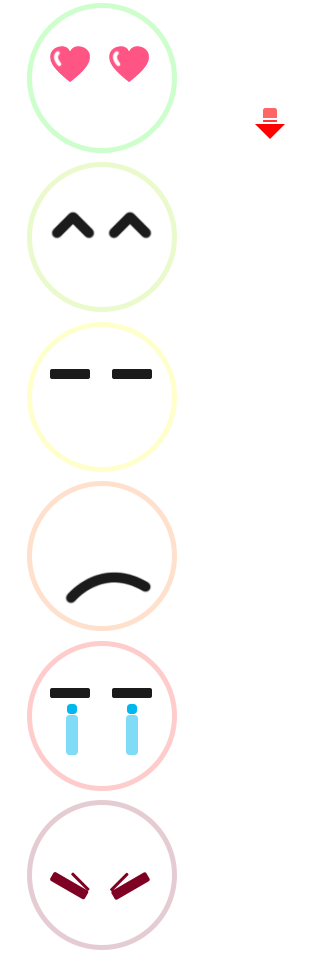
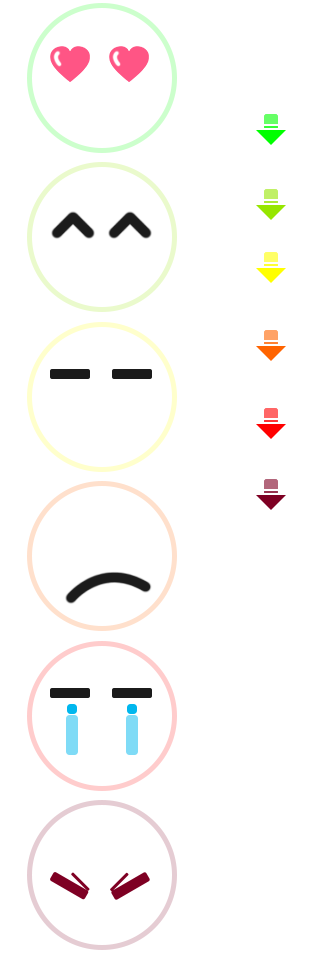
ui 修改

diff --git a/baidu/wind/js/index.js b/baidu/wind/js/index.js
@@ -45,7 +45,7 @@
         $air_day = $('.day');
     var html_air = '';
     $.each(DESC_AIR, function(i, v){
-        html_air += '<li style="background-color: '+v[1]+';color:'+(i<3?'black':'white')+'">'+v[0]+'</li>'
+        html_air += '<li style="background-color: '+v[1]+';color:'+(i<3?'#3d3d3d':'white')+'" class="li_'+(i+1)+'">'+v[0]+'<span></span></li>'
     });
     $air_legend.html(html_air+'<li class="arrowli animate"></li>');
 
@@ -103,7 +103,7 @@
                     d.setDate(d.getDate()+i+1);
                     var level_index = parseInt(data['0'+(24*(i+1))]-60);
                     var val = DESC_AIR[level_index];
-                    html += '<li data-level="'+level_index+'" data-desc="'+val[2]+'" data-class="'+val[3]+'">'+arr_date[i]+'<span>'+_format_date(d)+'</span></li>';
+                    html += '<li data-level="'+level_index+'" data-desc="'+val[2]+'" data-class="'+val[3]+'"><b>'+arr_date[i]+'</b><span>'+_format_date(d)+'</span></li>';
                 });
                 $air_day.html(html);
                 _change_icon(0);
@@ -119,51 +119,7 @@
     
     var $loading_wind = $('#loading_wind'),
     	$loading_air = $('#loading_air');
-    $('#btn_air').click(function(){
-    	$chart_container.addClass('show_air');
-    	if(current_map_point){
-    		if($air_ul.data('flag')){
-    			return;
-    		}
-    		$loading_air.show();
-    		loadAir(current_map_point.lng, current_map_point.lat, function(data){
-    			if(data){
-    				var arr = [parseFloat(data['024']), parseFloat(data['048']), parseFloat(data['072'])];
-    				var html = '';
-    				$.each(arr, function(i,v){
-    					var week_index = today+i+1;
-    					week_index = week_index % 7;
-    					var text = '',
-    						color = '',
-    						week = arr_week[week_index];
-    					if(v >= 0 && v < 50){
-    						text = '好';
-    						color = 'rgb(0, 255, 0)';
-    					}else if(v >= 50 && v < 100){
-    						text = '较好';
-    						color = 'rgb(150, 230, 0)';
-    					}else if(v >= 100 && v < 150){
-    						text = '一般';
-    						color = 'rgb(255, 255,0)';
-    					}else if(v >= 150 && v < 200){
-    						text = '较差';
-    						color = 'rgb(255, 100, 0)';
-    					}else if(v >= 200 && v < 300){
-    						text = '差';
-    						color = 'rgb(255, 0, 0)';
-    					}else{
-    						text = '极差';
-    						color = 'rgb(126, 0, 35)';
-    					}
-    					html += '<li>'+week+'<span style="background-color: '+color+'"></span>'+text+'</li>';
-    				});
-    				$air_ul.html(html);
-    				$loading_air.hide();
-    				$air_ul.data('flag', true);
-    			}
-    		});
-    	}
-    });
+    
     var current_map_point;
     var $wind_chart = $('.wind_chart');
 	require([
@@ -186,8 +142,8 @@
     			}
     		},100);
     	}
-    	map.addEventListener("dragend", dragendOrZoomend);
-	    map.addEventListener("zoomend", dragendOrZoomend);
+    	// map.addEventListener("dragend", dragendOrZoomend);
+	    // map.addEventListener("zoomend", dragendOrZoomend);
     	map.addEventListener("click", function(e){
     		clearData();
     		current_map_point = e.point;
@@ -198,12 +154,8 @@
     			marker.setPosition(current_map_point);
     		}
     		$chart_container.removeClass().show();
-      //       .css({
-    		// 	left: e.offsetX+15,
-    		// 	top: e.offsetY-30
-    		// })
-    		// $loading_wind.show();
             $wind_chart.addClass('data_loading');
+            $nav_h3.first().click();
     		// console.log(current_map_point.lng, current_map_point.lat, getWind(current_map_point.lng, current_map_point.lat).length());
     		loadWindSpeed(current_map_point.lng, current_map_point.lat, function(data){
                 $wind_chart.removeClass('data_loading');

diff --git a/baidu/wind/index.html b/baidu/wind/index.html
@@ -9,6 +9,7 @@
 	  	body{
 	  		padding: 0;
 	  		margin: 0;
+	  		font: 14px/1.6 "Microsoft Yahei","Tahoma","SimSun";
 	  	}
 	  	ul{
 	  		padding: 0;
@@ -45,7 +46,7 @@
 			top: 50%;
 			width: 820px;
 			height: 500px;
-			padding: 20px;
+			padding: 10px;
 			margin-left: -415px;
 			margin-top: -235px;
 			z-index: 101;
@@ -139,7 +140,7 @@
 		}
 		.module_container{
 			width: 100%;
-			height: 400px;
+			height: 405px;
 			overflow: hidden;
 			margin-top: 10px;
 		}
@@ -164,8 +165,9 @@
 		.air h3{
 			color: #E36A0C;
 		}
-		.air ul{
+		.clear{
 			overflow: hidden;
+			clear: both;
 		}
 		.air li{
 			float: left;
@@ -184,23 +186,29 @@
 			text-indent: 20px;
 			background-color: rgba(255, 255, 255, 0.3);
 			position: relative;
-			top: -4px;
 			z-index: -1;
 		}
-		.day{
+
+		.day_c{
+			position: relative;
 			background-color: white;
 			border-radius: 0 0 5px 5px;
-			color: #000;
+			color: #3d3d3d;
 			padding-top: 40px;
 		}
 		.day li{
+			height: auto;
+		}
+		.day li b{
 			font-size: 54px;
-			height: 94px;
-			line-height: 50px;
+			height: 60px;
+			line-height: 60px;
 		}
 		.day li span{
 			font-size: 18px;
 			display: block;
+			height: 37px;
+			font-weight: normal;
 		}
 		.loading{
 			width: 100%;
@@ -244,30 +252,64 @@
 			_-webkit-filter: chroma(color=tomato);
 			_filter: chroma(color=tomato);
 		}
+		.legend_c{
+			overflow: visible;
+			height: 32px;
+			position: relative;
+			top: 4px;
+		}
 		.air .legend{
 			height: 32px;
 			position: relative;
 			overflow: visible;
+			float: left;
+			width: 822px;
 		}
 		.legend li{
+			font-size: 18px;
 			height: 24px;
 			line-height: 24px;
-			width: 16.66%;
+			width: 136px;
 			text-align: center;
 			margin-top:4px;
+			position: relative;
+			margin-right: 1px;
+			font-weight: normal;
 		}
+
 		.legend li.on{
 			height: 32px;
 			line-height: 32px;
 			margin-top: 0;
 		}
-		.legend .arrowli{
+		.legend li.on span{
 			width: 34px;
 			height: 40px;
 			background: url(img/img.png) no-repeat -254px -107px;
 			position: absolute;
-			top: -38px;
+			top: -42px;
+			left: 50%;
+			margin-left: -17px;
 		}
+		.legend .li_1.on span{
+			background-position: -254px -107px;
+		}
+		.legend .li_2.on span{
+			background-position: -254px -185px;
+		}
+		.legend .li_3.on span{
+			background-position: -254px -247px;
+		}
+		.legend .li_4.on span {
+			background-position: -254px -324px;
+		}
+		.legend .li_5.on span{
+			background-position: -254px -401px;
+		}
+		.legend .li_6.on span{
+			background-position: -254px -473px;
+		}
+		
 		.nav{
 			overflow: hidden;
 			text-align: center;
@@ -353,10 +395,6 @@
 		.icon_6{
 			background-position: -20px -796px;
 		}
-		.day_c{
-			position: relative;
-			top: -4px;
-		}
 
 	  	</style>
 	</head>
@@ -378,11 +416,13 @@
 					<div class="module air">
 						<div class="c">
 							<div class="icon"></div>
-							<ul class="legend"></ul>
+							<div class="legend_c clear">
+								<ul class="legend"></ul>
+							</div>
 							<div class="desc_air"></div>
 							<div class="day_c">
 								<div class="arrow animate"></div>
-								<ul class="day">
+								<ul class="day clear">
 									<li>今天<br/><span>01-06</span></li>
 									<li>明天<br/><span>01-06</span></li>
 									<li>后天<br/><span>01-06</span></li>
